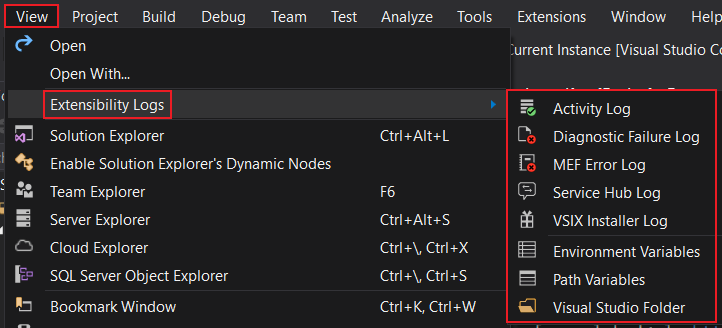
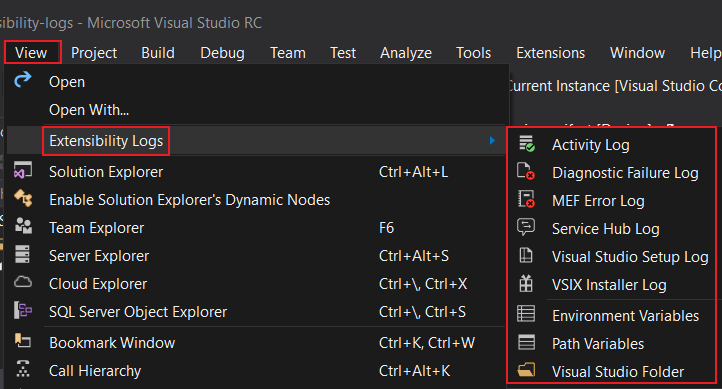
docs(*): update documentation sources

diff --git a/src/vsix/source.extension.cs b/src/vsix/source.extension.cs
@@ -11,7 +11,7 @@ namespace ExtensibilityLogs
         public const string Name = "Extensibility Logs";
         public const string Description = @"Quickest & easiest way to view extensibility logs!";
         public const string Language = "en-US";
-        public const string Version = "1.4";
+        public const string Version = "1.4.0.1";
         public const string Author = "Yann Duran";
         public const string Tags = "Visual Studio;extensibility;logs;productivity;yannduran;yd;Yann Duran";
     }

diff --git a/docs-source/features.md b/docs-source/features.md
@@ -44,15 +44,24 @@ and then open it in your editor of choice.
 ### Service Hub Log
 
 Opens the latest _Service Hub Log_ in a tab in Visual Studio,
-without knowing how to find it first, 
+without first knowing how to it first, 
 and then open it in your editor of choice.
 
 - **Folder:** %TEMP%\servicehub\logs 
 - **Files:** VsixServiceDiscovery-*.log
 
+### Visual Studio Setup Log
+
+Opens the latest _Visual Studio Setup Log_ in a tab in Visual Studio, scrambling to find it,
+and then open it in your editor of choice.
+
+- **Folder:** %TEMP%
+- **Files:** dd_setup_*.log
+
 ### VSIX Installer Log
 
-Opens the latest _VSIX Installer Log_ in a tab in Visual Studio, scrambling to find it,
+Opens the latest _VSIX Installer Log_ in a tab in Visual Studio, 
+without knowing what the file's called and how to find it, 
 and then open it in your editor of choice.
 
 - **Folder:** %TEMP%
@@ -117,12 +126,17 @@ to `false`.
 
 #### Enable Service Hub Log
 
-The _MEF Error Log_ feature can be disabled by setting _Tools | Options | Extensibility Logs | Enable MEF Error Log_
+The _MEF Error Log_ feature can be disabled by setting _Tools | Options | Extensibility Logs | Enable Service Hub Log_
+to `false`.
+
+#### Enable Visual Studio Setup Log
+
+The _Visual Studio Setup Log_ feature can be disabled by setting _Tools | Options | Extensibility Logs | Enable Visual Studio Setup Log_
 to `false`.
 
 #### Enable VSIX Installer Log
 
-The _VSIX Installer Log_ feature can be disabled by setting _Tools | Options | Extensibility Logs | Enable MEF Error Log_
+The _VSIX Installer Log_ feature can be disabled by setting _Tools | Options | Extensibility Logs | Enable VSIX Installer Log_
 to `false`.
 
 ### Tools Options

diff --git a/docs-source/changelog.md b/docs-source/changelog.md
@@ -1,9 +1,11 @@
 ## Public Releases
 
-### v1.3 - 2019-04-13
-- added 'Service Hub Log'
-- added 'Environment Variables'
+### v1.5 - 2019-04-??
+  - added 'Visual Studio Setup Log'
 
+### v1.4 - 2019-04-13
+  - added 'Service Hub Log'
+  - added 'Environment Variables'
 
 ### v1.3 - 2019-04-10
   - added 'Visual Studio Folder'
@@ -43,4 +45,4 @@
 
 ### v0.1 - 2019-02-03
   - initial `master` branch on GitHub
-  - added 'Extensibility Logs' toolbar
+  - added 'Extensibility Logs' toolbar 

diff --git a/docs-source/roadmap.md b/docs-source/roadmap.md
@@ -12,7 +12,7 @@ They may, or may not, end up being added into _Extensibility Logs_.
 - [x] MEF Error Log
 - [x] Service Hub Log
 - [x] Environment Variables
-- [ ] Visual Studio Setup Log?
+- [x] Visual Studio Setup Log?
 - [ ] Enable/Disable VSIP Logging?
 - [ ] Enhance Path Variables?
 
